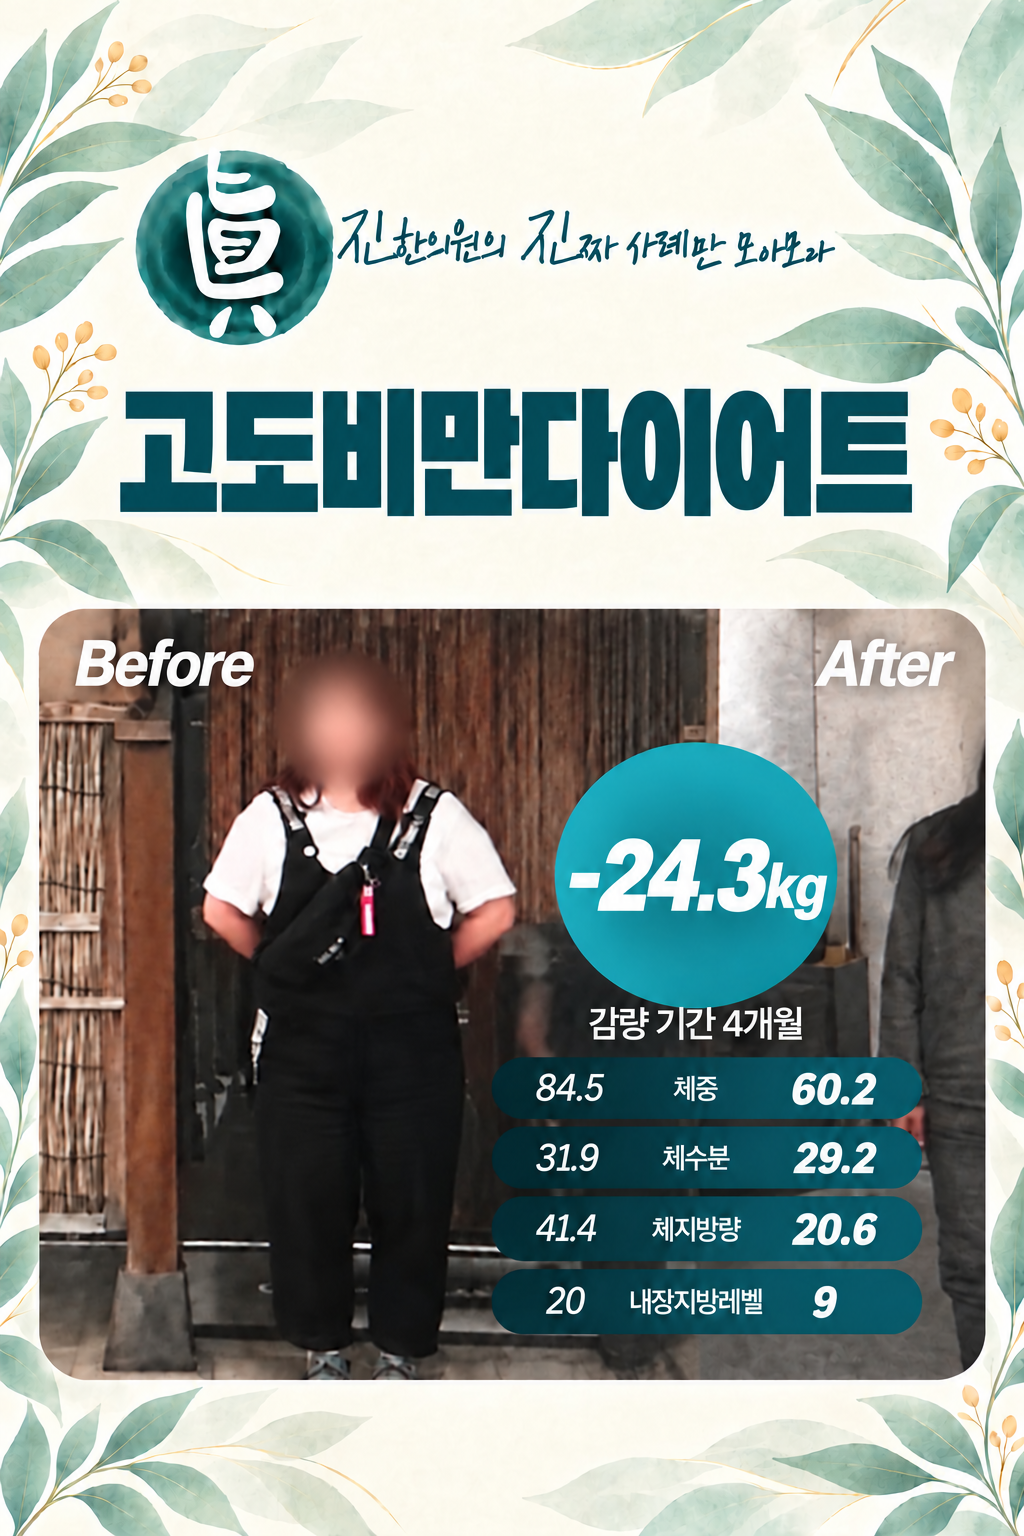
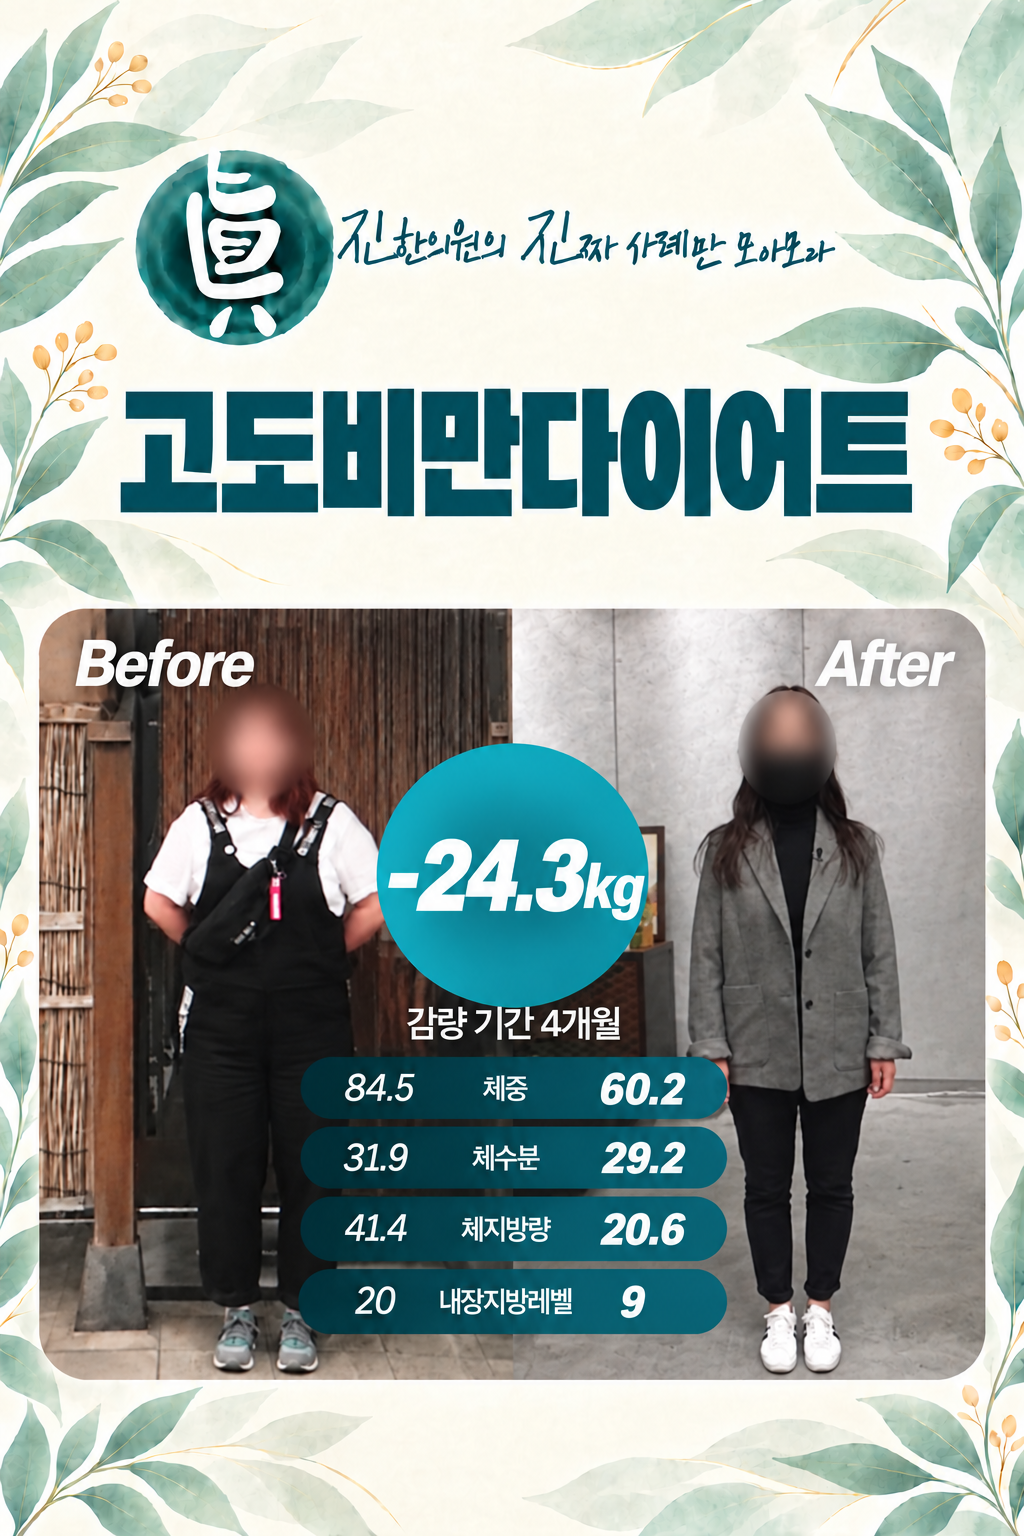
feat: 메인 1섹션 5~9번 배너 오버레이 좌표 정렬 및 모바일 3번 배너 밝기·선명도 개선

diff --git a/components/home/MainHeroSlides.pc.tsx b/components/home/MainHeroSlides.pc.tsx
@@ -480,7 +480,32 @@ export function Slide4Pc() {
  * 5~9번 배너 PC — PNG 기반 이미지 + 정밀 좌표 HTML 텍스트 선택/복사 오버레이
  */
 export function SlideCaseOverlayPc({ data }: { data: CaseBannerData }) {
-  const pcMetricTops = ['24.2%', '39.5%', '54.8%', '70.1%'];
+  const isSlide5 = data.id === 5;
+  const isSlide7Or9 = data.id === 7 || data.id === 9;
+
+  const badgeStyle = isSlide5
+    ? { left: '73.4%', width: '10.5%', top: '24.5%', height: '26.3%' }
+    : isSlide7Or9
+      ? { left: '72.1%', width: '9.8%', top: '25.3%', height: '24.5%' }
+      : { left: '71.7%', width: '10.4%', top: '28.2%', height: '26.2%' };
+
+  const periodStyle = isSlide5
+    ? { left: '73.4%', width: '10.5%', top: '51.5%', height: '4.2%' }
+    : isSlide7Or9
+      ? { left: '72.1%', width: '9.8%', top: '50.2%', height: '4.0%' }
+      : { left: '71.7%', width: '10.4%', top: '54.6%', height: '4.0%' };
+
+  const capsuleBox = isSlide5
+    ? { left: '71.3%', width: '14.7%', height: '5.8%' }
+    : isSlide7Or9
+      ? { left: '69.8%', width: '14.5%', height: '5.8%' }
+      : { left: '69.5%', width: '14.8%', height: '5.8%' };
+
+  const pcMetricTops = isSlide5
+    ? ['56.7%', '63.9%', '71.2%', '78.6%']
+    : isSlide7Or9
+      ? ['54.8%', '61.8%', '68.8%', '76.0%']
+      : ['59.2%', '66.3%', '73.5%', '80.7%'];
 
   return (
     <div
@@ -492,6 +517,7 @@ export function SlideCaseOverlayPc({ data }: { data: CaseBannerData }) {
         alt={`${data.title} ${data.weightLoss} 감량 사례`}
         fill
         sizes="100vw"
+        unoptimized
         draggable={false}
         className="object-contain select-none pointer-events-none"
       />
@@ -502,90 +528,132 @@ export function SlideCaseOverlayPc({ data }: { data: CaseBannerData }) {
           aria-hidden="true"
           className="pointer-events-none absolute rounded-full bg-white"
           style={{
-            left: '86.43%',
-            top: '30.55%',
-            width: cqw(5.5),
-            height: cqw(5.5),
+            left: '81.93%',
+            top: '63.45%',
+            width: cqw(3.5),
+            height: cqw(3.5),
           }}
         />
       )}
 
-      {/* 좌측 상단 서브 타이틀 & 메인 타이틀 선택 오버레이 */}
+      {/* ① 좌측 상단 서브 타이틀 ('眞' 직인 우측 손글씨 영역) */}
       <div
         data-selectable-text
-        className="absolute select-text cursor-text"
+        className="absolute flex items-center select-text cursor-text"
         style={{
-          left: '6.2%',
-          top: '19.5%',
-          width: '28%',
+          left: '19.2%',
+          top: '29.5%',
+          width: '31.0%',
+          height: '9.0%',
         }}
       >
         <p
-          className="text-transparent selection:bg-[#08325D]/20 selection:text-transparent font-medium leading-tight"
-          style={{ fontSize: cqw(24) }}
+          className="text-transparent selection:bg-[#08325D]/20 selection:text-transparent font-medium leading-none whitespace-nowrap"
+          style={{ fontSize: cqw(36) }}
         >
           {data.subTitle}
         </p>
+      </div>
+
+      {/* ② 좌측 메인 타이틀 (대형 청록색 타이틀 영역) */}
+      <div
+        data-selectable-text
+        className="absolute flex items-center select-text cursor-text"
+        style={{
+          left: '8.0%',
+          top: '50.5%',
+          width: '49.5%',
+          height: '21.5%',
+        }}
+      >
         <h2
-          className="mt-1 text-transparent selection:bg-[#08325D]/20 selection:text-transparent font-extrabold leading-[1.15]"
-          style={{ fontSize: cqw(64) }}
+          className="text-transparent selection:bg-[#08325D]/20 selection:text-transparent font-extrabold leading-none whitespace-nowrap"
+          style={{ fontSize: cqw(108), letterSpacing: '-0.04em' }}
         >
           {data.title}
         </h2>
       </div>
 
-      {/* 중앙 우측 원형 감량 배지 (-24.3kg / 감량 기간 4개월) 선택 오버레이 */}
+      {/* ③ 우측 사진 카드 상단 Before / After 라벨 */}
+      <span
+        data-selectable-text
+        className="absolute left-[61.0%] top-[13.0%] text-transparent selection:bg-white/35 selection:text-transparent font-bold italic leading-none select-text cursor-text"
+        style={{ fontSize: cqw(34) }}
+      >
+        Before
+      </span>
+      <span
+        data-selectable-text
+        className="absolute left-[87.8%] top-[13.0%] text-transparent selection:bg-white/35 selection:text-transparent font-bold italic leading-none select-text cursor-text"
+        style={{ fontSize: cqw(34) }}
+      >
+        After
+      </span>
+
+      {/* ④ 원형 감량 배지 수치 (-24.3kg 등) */}
       <div
         data-selectable-text
-        className="absolute flex flex-col items-center justify-center text-center select-text cursor-text"
-        style={{
-          left: '55.4%',
-          top: '33.5%',
-          width: '11.2%',
-          height: '33%',
-        }}
+        className="absolute flex items-center justify-center text-center select-text cursor-text"
+        style={badgeStyle}
       >
         <strong
-          className="text-transparent selection:bg-white/35 selection:text-transparent font-extrabold leading-none"
-          style={{ fontSize: cqw(46) }}
+          className="text-transparent selection:bg-white/35 selection:text-transparent font-extrabold leading-none whitespace-nowrap"
+          style={{ fontSize: cqw(44) }}
         >
           {data.weightLoss}
         </strong>
+      </div>
+
+      {/* ⑤ 감량 기간 (감량 기간 4개월 등) */}
+      <div
+        data-selectable-text
+        className="absolute flex items-center justify-center text-center select-text cursor-text"
+        style={periodStyle}
+      >
         <span
-          className="mt-2 text-transparent selection:bg-white/35 selection:text-transparent font-semibold leading-tight"
+          className="text-transparent selection:bg-white/35 selection:text-transparent font-bold leading-none whitespace-nowrap"
           style={{ fontSize: cqw(22) }}
         >
           {data.period}
         </span>
       </div>
 
-      {/* 우측 4개 체성분 수치 캡슐 선택 오버레이 */}
-      {data.metrics.map((m, idx) => (
-        <div
-          key={m.label}
-          data-selectable-text
-          className="absolute flex items-center justify-between px-4 select-text cursor-text"
-          style={{
-            left: '67.5%',
-            top: pcMetricTops[idx],
-            width: '23.2%',
-            height: '11.5%',
-          }}
-        >
-          <span
-            className="text-transparent selection:bg-white/35 selection:text-transparent font-medium"
-            style={{ fontSize: cqw(22) }}
+      {/* ⑥ 우측 사진 하단 4개 체성분 수치 캡슐 ([Before] [항목명] [After] 3열 매핑) */}
+      {data.metrics.map((m, idx) => {
+        const cleanLabel = m.label.replace(/\(.*\)/, '');
+        return (
+          <div
+            key={m.label}
+            data-selectable-text
+            className="absolute grid grid-cols-3 items-center px-[0.9%] select-text cursor-text"
+            style={{
+              left: capsuleBox.left,
+              width: capsuleBox.width,
+              height: capsuleBox.height,
+              top: pcMetricTops[idx],
+            }}
           >
-            {m.label}{' '}
-          </span>
-          <span
-            className="text-transparent selection:bg-white/35 selection:text-transparent font-bold"
-            style={{ fontSize: cqw(30) }}
-          >
-            {m.before} → {m.after}
-          </span>
-        </div>
-      ))}
+            <span
+              className="text-left text-transparent selection:bg-white/35 selection:text-transparent font-semibold leading-none whitespace-nowrap"
+              style={{ fontSize: cqw(22) }}
+            >
+              {m.before}{' '}
+            </span>
+            <span
+              className="text-center text-transparent selection:bg-white/35 selection:text-transparent font-medium leading-none whitespace-nowrap"
+              style={{ fontSize: cqw(18) }}
+            >
+              {cleanLabel}{' '}
+            </span>
+            <span
+              className="text-right text-transparent selection:bg-white/35 selection:text-transparent font-bold leading-none whitespace-nowrap"
+              style={{ fontSize: cqw(23) }}
+            >
+              {m.after}
+            </span>
+          </div>
+        );
+      })}
     </div>
   );
 }

diff --git a/components/home/MainHeroSlides.mobile.tsx b/components/home/MainHeroSlides.mobile.tsx
@@ -280,6 +280,19 @@ export function Slide3Mobile() {
         padding: mcqw(20),
       }}
     >
+      {/* 미세 선명화(Unsharp Mask) 필터 정의 */}
+      <svg className="pointer-events-none absolute w-0 h-0 opacity-0" aria-hidden="true">
+        <defs>
+          <filter id="b3-mo-sharpen" colorInterpolationFilters="sRGB">
+            <feConvolveMatrix
+              order="3"
+              kernelMatrix="0 -0.25 0 -0.25 2.0 -0.25 0 -0.25 0"
+              preserveAlpha="true"
+            />
+          </filter>
+        </defs>
+      </svg>
+
       <div
         className="pointer-events-none select-none absolute inset-x-0 bottom-0"
         style={{ top: mcqw(-10) }}
@@ -289,11 +302,16 @@ export function Slide3Mobile() {
           alt="진한의원 후기 배경"
           fill
           sizes="100vw"
+          unoptimized
           draggable={false}
           className="object-cover select-none pointer-events-none"
-          style={{ objectPosition: `calc(69% - ${mcqw(10)}) 0%` }}
+          style={{
+            objectPosition: `calc(69% - ${mcqw(10)}) 0%`,
+            filter: 'url(#b3-mo-sharpen) brightness(1.13) contrast(1.08)',
+          }}
         />
       </div>
+
       <div className="relative z-10 flex flex-col items-center text-center">
         <h2
           data-selectable-text
@@ -524,20 +542,20 @@ export function SlideCaseOverlayMobile({ data }: { data: CaseBannerData }) {
 
   // 배너별 원형 감량 배지 및 기간 위치 (1024x1536 원본 실측 비율)
   const badgeStyle = isSlide5
-    ? { left: '54.0%', width: '28.0%', top: '48.2%', height: '17.0%' }
+    ? { left: '36.8%', width: '26.4%', top: '48.4%', height: '17.0%' }
     : isSlide7Or9
       ? { left: '37.2%', width: '25.6%', top: '49.5%', height: '16.0%' }
       : { left: '37.2%', width: '25.6%', top: '51.2%', height: '16.0%' };
 
   const periodStyle = isSlide5
-    ? { left: '54.0%', width: '28.0%', top: '65.2%', height: '3.0%' }
+    ? { left: '36.8%', width: '26.4%', top: '65.2%', height: '3.0%' }
     : isSlide7Or9
       ? { left: '37.2%', width: '25.6%', top: '63.8%', height: '2.8%' }
       : { left: '37.2%', width: '25.6%', top: '67.3%', height: '2.8%' };
 
   // 배너별 하단 4개 체성분 캡슐 위치
   const capsuleBox = isSlide5
-    ? { left: '48.0%', width: '42.2%', height: '4.0%' }
+    ? { left: '29.2%', width: '41.6%', height: '4.0%' }
     : { left: '30.2%', width: '39.6%', height: '3.9%' };
 
   const moMetricTops = isSlide5
@@ -556,6 +574,7 @@ export function SlideCaseOverlayMobile({ data }: { data: CaseBannerData }) {
         alt={`${data.title} ${data.weightLoss} 감량 사례`}
         fill
         sizes="100vw"
+        unoptimized
         draggable={false}
         className="object-cover select-none pointer-events-none"
       />

diff --git a/components/home/MainHeroShared.tsx b/components/home/MainHeroShared.tsx
@@ -33,8 +33,8 @@ export type CaseBannerData = {
 export const CASE_BANNERS: CaseBannerData[] = [
   {
     id: 5,
-    pcImg: '/images/main/banners/b5_pc.png',
-    moImg: '/images/main/banners/b5_mo.png',
+    pcImg: '/images/main/banners/b5_pc.png?v=20261021',
+    moImg: '/images/main/banners/b5_mo.png?v=20261021',
     subTitle: '진한의원의 진짜 사례만 모아모아',
     title: '고도비만다이어트',
     weightLoss: '-24.3kg',
